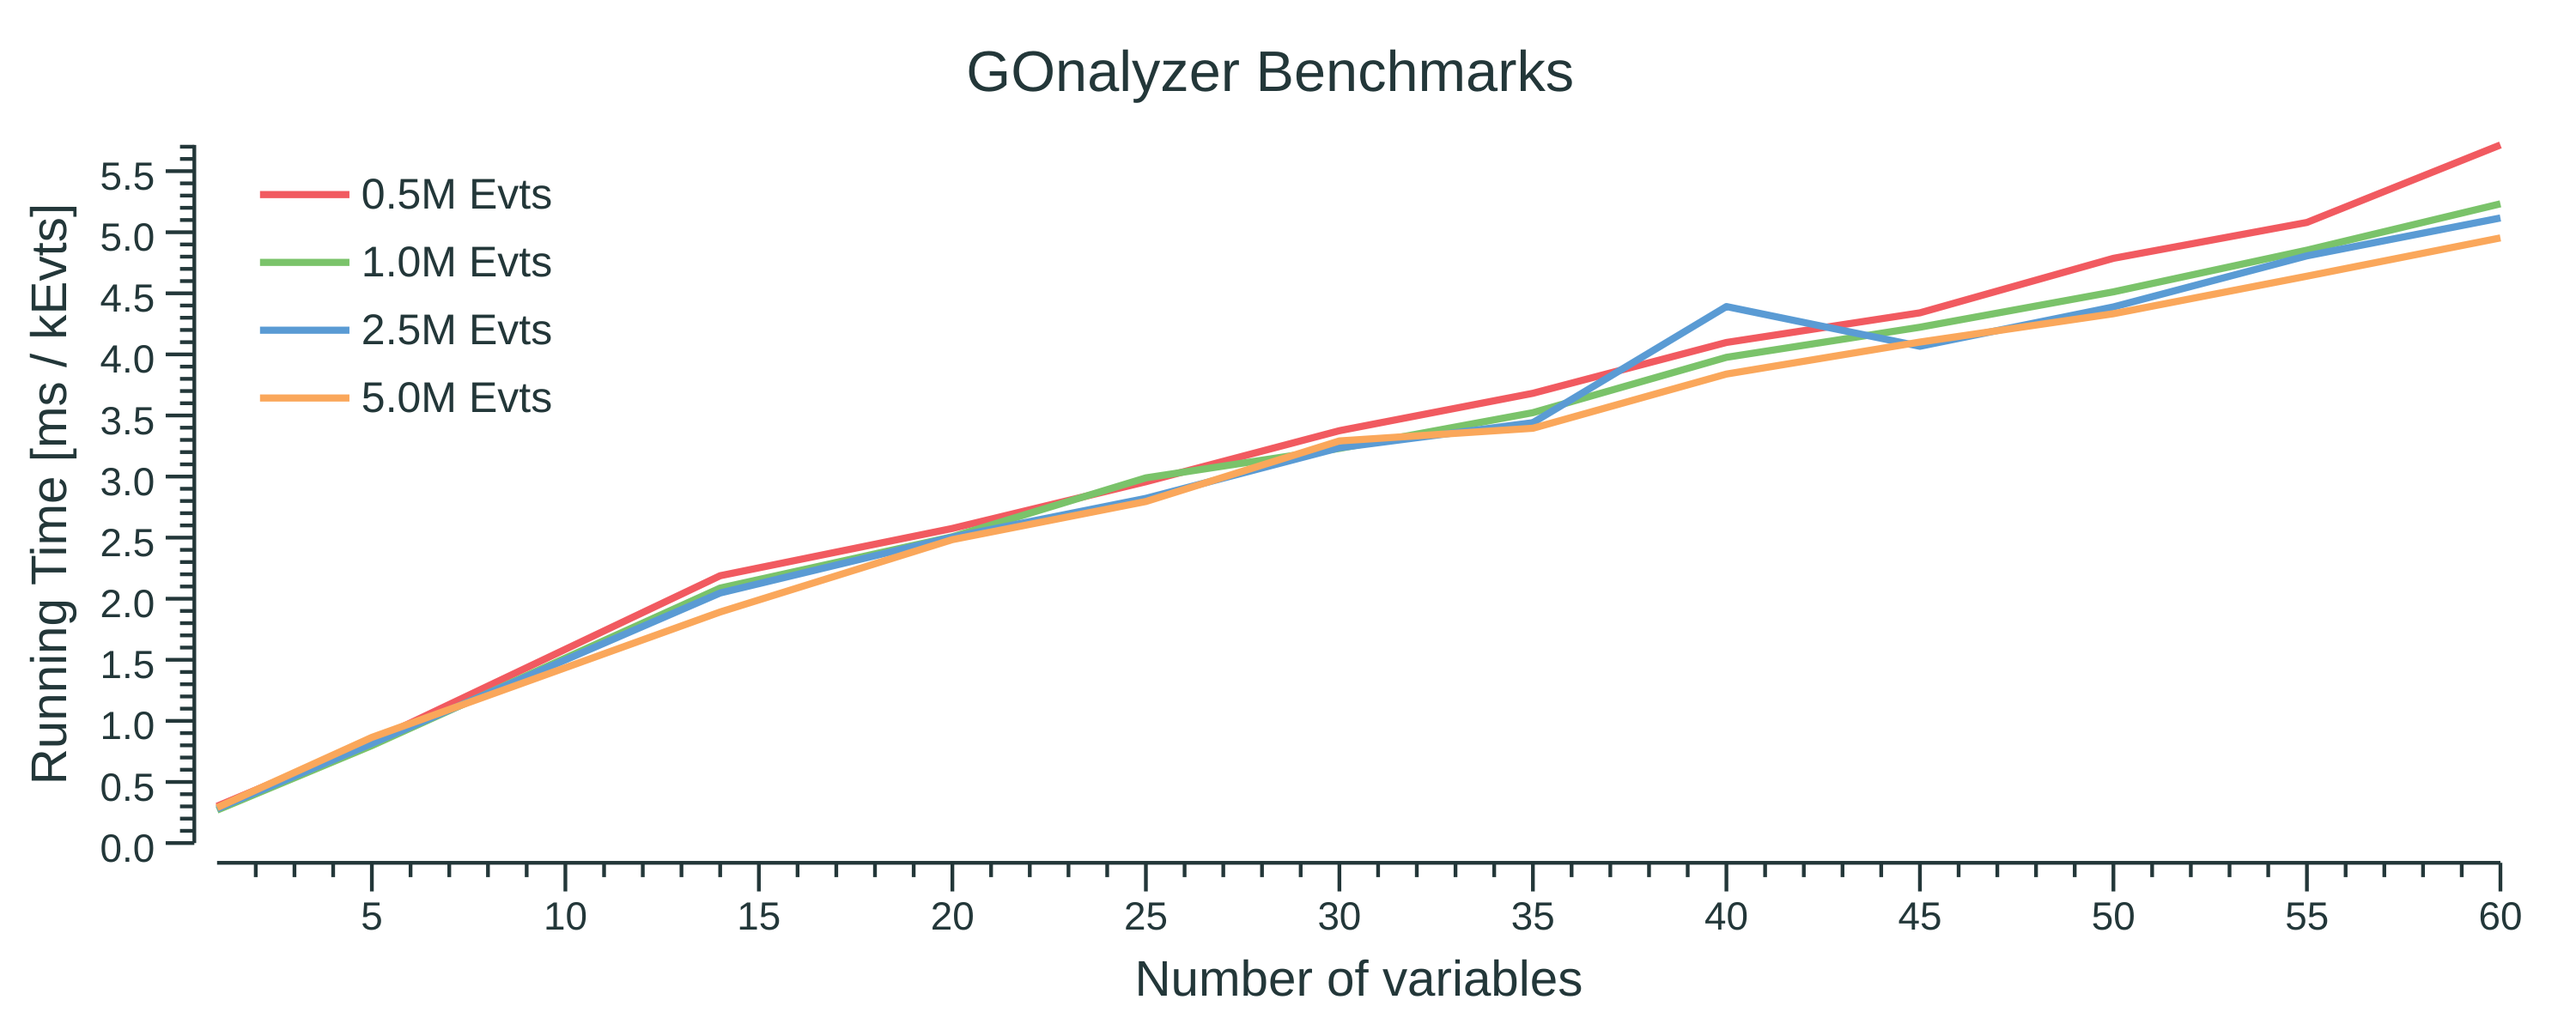
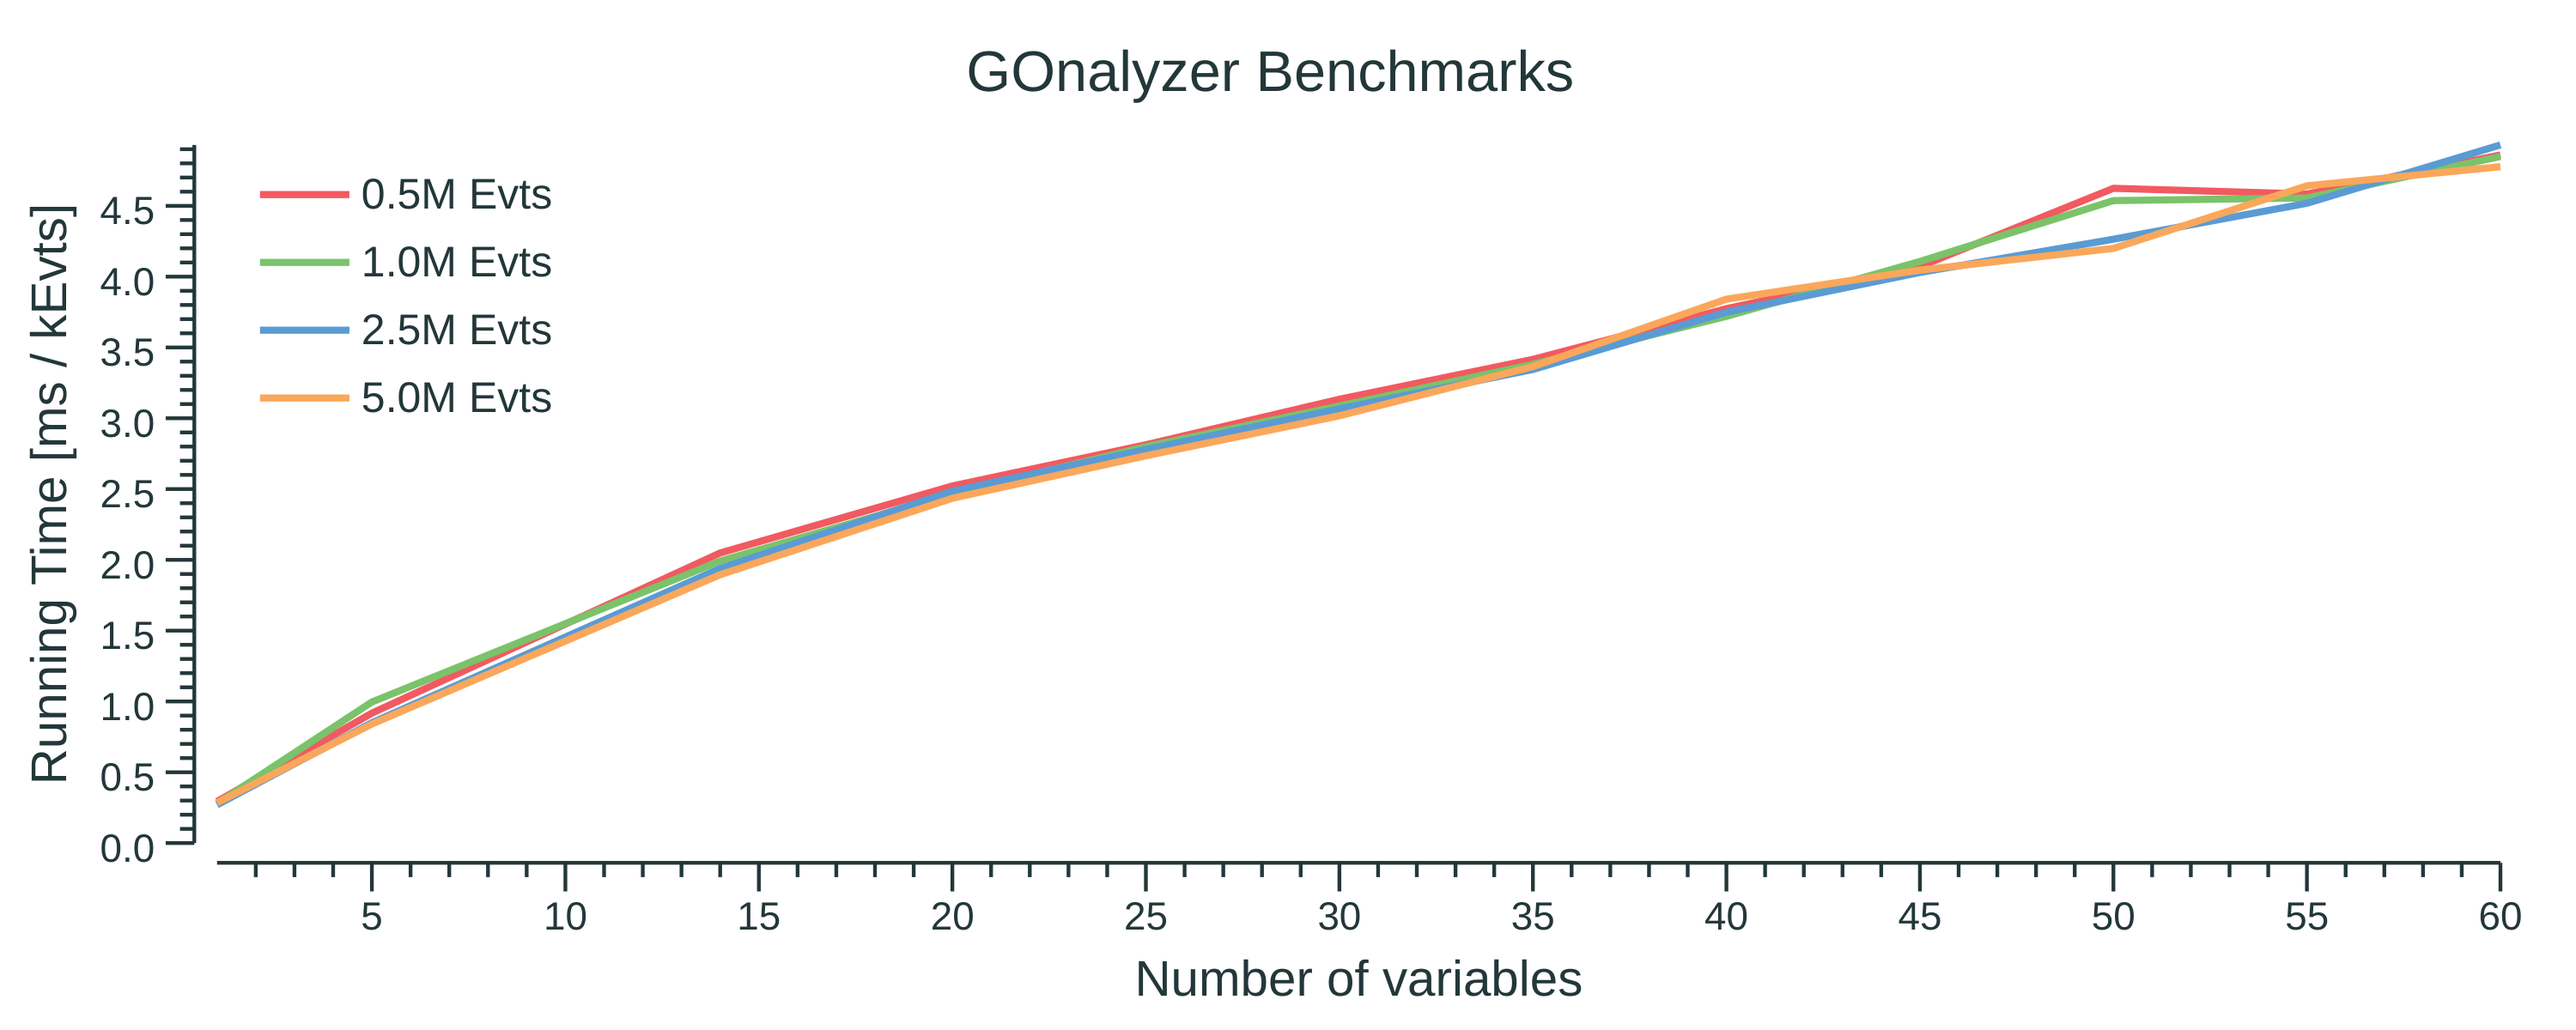
Add new perf after code re-organization

diff --git a/ana-perf/main.go b/ana-perf/main.go
@@ -24,7 +24,7 @@ func main() {
 
 	// Scan number of events
 	nEvts1, nEvts2, nEvts3, nEvts4 := 10, 20, 50, 100
-	
+
 	// Containers
 	t1 := make([]float64, len(nVars))
 	t2 := make([]float64, len(nVars))
@@ -129,43 +129,43 @@ func runTest(n10kEvtsPerSample, nVariables int) float64 {
 	samples := []*ana.Sample{splData, splBkg1, splBkg2, splBkg3, splBkg4}
 
 	// Variables, organized in bunch of 17
-	variables := []*ana.Variable {
-		
+	variables := []*ana.Variable{
+
 		/*var_dphi, var_Crr, var_Cnn, var_Ckk, var_dphi,
-			var_dphi, var_Crr, var_Cnn, var_Ckk, var_dphi,
-			var_dphi, var_Crr, var_Cnn, var_Ckk, var_dphi,
-			var_dphi, var_Crr, var_Cnn, var_Ckk, var_dphi,
-			
-			var_dphi, var_Crr, var_Cnn, var_Ckk, var_dphi,
-			var_dphi, var_Crr, var_Cnn, var_Ckk, var_dphi,
-			var_dphi, var_Crr, var_Cnn, var_Ckk, var_dphi,
-			var_dphi, var_Crr, var_Cnn, var_Ckk, var_dphi,
-			
-			var_dphi, var_Crr, var_Cnn, var_Ckk, var_dphi,
-			var_dphi, var_Crr, var_Cnn, var_Ckk, var_dphi,
-			var_dphi, var_Crr, var_Cnn, var_Ckk, var_dphi,
-			var_dphi, var_Crr, var_Cnn, var_Ckk, var_dphi,
-		*/	
+		var_dphi, var_Crr, var_Cnn, var_Ckk, var_dphi,
+		var_dphi, var_Crr, var_Cnn, var_Ckk, var_dphi,
+		var_dphi, var_Crr, var_Cnn, var_Ckk, var_dphi,
+
+		var_dphi, var_Crr, var_Cnn, var_Ckk, var_dphi,
+		var_dphi, var_Crr, var_Cnn, var_Ckk, var_dphi,
+		var_dphi, var_Crr, var_Cnn, var_Ckk, var_dphi,
+		var_dphi, var_Crr, var_Cnn, var_Ckk, var_dphi,
+
+		var_dphi, var_Crr, var_Cnn, var_Ckk, var_dphi,
+		var_dphi, var_Crr, var_Cnn, var_Ckk, var_dphi,
+		var_dphi, var_Crr, var_Cnn, var_Ckk, var_dphi,
+		var_dphi, var_Crr, var_Cnn, var_Ckk, var_dphi,
+		*/
 
 		var_dphi, var_m_tt, var_eta_t, var_pt_lep, var_Ckk,
-			var_Crr, var_Cnn, var_pt_lep, var_eta_lep, var_pt_b,
-			var_eta_b, var_pt_vsum, var_pt_t, var_pt_tt, var_x1,
-			var_x1x2, var_GG,
-			
-			var_dphi, var_m_tt, var_eta_t, var_pt_lep, var_Ckk,
-			var_Crr, var_Cnn, var_pt_lep, var_eta_lep, var_pt_b,
-			var_eta_b, var_pt_vsum, var_pt_t, var_pt_tt, var_x1,
-			var_x1x2, var_GG,
-			
-			var_dphi, var_m_tt, var_eta_t, var_pt_lep, var_Ckk,
-			var_Crr, var_Cnn, var_pt_lep, var_eta_lep, var_pt_b,
-			var_eta_b, var_pt_vsum, var_pt_t, var_pt_tt, var_x1,
-			var_x1x2, var_GG,
-			
-			var_dphi, var_m_tt, var_eta_t, var_pt_lep, var_Ckk,
-			var_Crr, var_Cnn, var_pt_lep, var_eta_lep, var_pt_b,
-			var_eta_b, var_pt_vsum, var_pt_t, var_pt_tt, var_x1,
-			var_x1x2, var_GG,
+		var_Crr, var_Cnn, var_pt_lep, var_eta_lep, var_pt_b,
+		var_eta_b, var_pt_vsum, var_pt_t, var_pt_tt, var_x1,
+		var_x1x2, var_GG,
+
+		var_dphi, var_m_tt, var_eta_t, var_pt_lep, var_Ckk,
+		var_Crr, var_Cnn, var_pt_lep, var_eta_lep, var_pt_b,
+		var_eta_b, var_pt_vsum, var_pt_t, var_pt_tt, var_x1,
+		var_x1x2, var_GG,
+
+		var_dphi, var_m_tt, var_eta_t, var_pt_lep, var_Ckk,
+		var_Crr, var_Cnn, var_pt_lep, var_eta_lep, var_pt_b,
+		var_eta_b, var_pt_vsum, var_pt_t, var_pt_tt, var_x1,
+		var_x1x2, var_GG,
+
+		var_dphi, var_m_tt, var_eta_t, var_pt_lep, var_Ckk,
+		var_Crr, var_Cnn, var_pt_lep, var_eta_lep, var_pt_b,
+		var_eta_b, var_pt_vsum, var_pt_t, var_pt_tt, var_x1,
+		var_x1x2, var_GG,
 	}
 
 	// Protection for too high number of variables
@@ -179,7 +179,6 @@ func runTest(n10kEvtsPerSample, nVariables int) float64 {
 
 	// Create analyzer object with options
 	analyzer := ana.New(samples, variables[:nVars],
-		ana.WithAutoStyle(true),
 		ana.WithCompileLatex(false),
 		ana.WithHistoNorm(true),
 		ana.WithHistoStack(true),
@@ -192,7 +191,7 @@ func runTest(n10kEvtsPerSample, nVariables int) float64 {
 	if err := analyzer.PlotHistos(); err != nil {
 		log.Fatal("Cannot plot histos:", err)
 	}
-	
+
 	return analyzer.RunTimePerKEvts()
 }
 
@@ -205,16 +204,16 @@ var (
 	tname = "truth"
 
 	// Some TreeFunc: weights and cuts
-	w1   = ana.NewValF64(0.5)
-	w2   = ana.NewValF64(2.0)
-	isGG = ana.NewVarBool("init_gg")
-	isQQ = ana.NewVarBool("init_qq")
+	w1   = ana.TreeValF64(0.5)
+	w2   = ana.TreeValF64(2.0)
+	isGG = ana.TreeVarBool("init_gg")
+	isQQ = ana.TreeVarBool("init_qq")
 
 	// Variables
 	var_dphi = &ana.Variable{
 		Name:       "truth_dphi_ll",
 		SaveName:   "truth_dphi_ll",
-		TreeFunc:   ana.NewVarF64("truth_dphi_ll"),
+		TreeFunc:   ana.TreeVarF64("truth_dphi_ll"),
 		Nbins:      15,
 		Xmin:       0,
 		Xmax:       math.Pi,
@@ -228,7 +227,7 @@ var (
 	var_Ckk = &ana.Variable{
 		Name:       "truth_Ckk",
 		SaveName:   "truth_Ckk",
-		TreeFunc:   ana.NewVarF64("truth_Ckk"),
+		TreeFunc:   ana.TreeVarF64("truth_Ckk"),
 		Nbins:      25,
 		Xmin:       -1,
 		Xmax:       1,
@@ -243,7 +242,7 @@ var (
 	var_Crr = &ana.Variable{
 		Name:       "truth_Crr",
 		SaveName:   "truth_Crr",
-		TreeFunc:   ana.NewVarF64("truth_Crr"),
+		TreeFunc:   ana.TreeVarF64("truth_Crr"),
 		Nbins:      25,
 		Xmin:       -1,
 		Xmax:       1,
@@ -258,7 +257,7 @@ var (
 	var_Cnn = &ana.Variable{
 		Name:       "truth_Cnn",
 		SaveName:   "truth_Cnn",
-		TreeFunc:   ana.NewVarF64("truth_Cnn"),
+		TreeFunc:   ana.TreeVarF64("truth_Cnn"),
 		Nbins:      25,
 		Xmin:       -1,
 		Xmax:       1,
@@ -273,7 +272,7 @@ var (
 	var_pt_lep = &ana.Variable{
 		Name:       "pt_lep",
 		SaveName:   "pt_lep",
-		TreeFunc:   ana.NewVarF32("l_pt"),
+		TreeFunc:   ana.TreeVarF32("l_pt"),
 		Nbins:      25,
 		Xmin:       0,
 		Xmax:       500,
@@ -286,7 +285,7 @@ var (
 	var_eta_lep = &ana.Variable{
 		Name:       "eta_lep",
 		SaveName:   "eta_lep",
-		TreeFunc:   ana.NewVarF32("l_eta"),
+		TreeFunc:   ana.TreeVarF32("l_eta"),
 		Nbins:      25,
 		Xmin:       -5,
 		Xmax:       5,
@@ -300,7 +299,7 @@ var (
 	var_pt_b = &ana.Variable{
 		Name:       "pt_b",
 		SaveName:   "pt_b",
-		TreeFunc:   ana.NewVarF32("b_pt"),
+		TreeFunc:   ana.TreeVarF32("b_pt"),
 		Nbins:      25,
 		Xmin:       0,
 		Xmax:       500,
@@ -313,7 +312,7 @@ var (
 	var_eta_b = &ana.Variable{
 		Name:       "eta_b",
 		SaveName:   "eta_b",
-		TreeFunc:   ana.NewVarF32("b_eta"),
+		TreeFunc:   ana.TreeVarF32("b_eta"),
 		Nbins:      25,
 		Xmin:       -5,
 		Xmax:       5,
@@ -327,7 +326,7 @@ var (
 	var_pt_vsum = &ana.Variable{
 		Name:        "vsum_pt",
 		SaveName:    "pt_vsum",
-		TreeFunc:    ana.NewVarF32("vsum_pt"),
+		TreeFunc:    ana.TreeVarF32("vsum_pt"),
 		Nbins:       25,
 		Xmin:        0,
 		Xmax:        250,
@@ -341,7 +340,7 @@ var (
 	var_pt_t = &ana.Variable{
 		Name:     "t_pt",
 		SaveName: "pt_t",
-		TreeFunc: ana.NewVarF32("t_pt"),
+		TreeFunc: ana.TreeVarF32("t_pt"),
 		Nbins:    100,
 		Xmin:     0,
 		Xmax:     500,
@@ -356,7 +355,7 @@ var (
 	var_eta_t = &ana.Variable{
 		Name:       "eta_t",
 		SaveName:   "eta_t",
-		TreeFunc:   ana.NewVarF32("t_eta"),
+		TreeFunc:   ana.TreeVarF32("t_eta"),
 		Nbins:      25,
 		Xmin:       -5,
 		Xmax:       5,
@@ -371,7 +370,7 @@ var (
 	var_m_tt = &ana.Variable{
 		Name:       "m_tt",
 		SaveName:   "m_tt",
-		TreeFunc:   ana.NewVarF32("ttbar_m"),
+		TreeFunc:   ana.TreeVarF32("ttbar_m"),
 		Nbins:      25,
 		Xmin:       300,
 		Xmax:       1500,
@@ -384,7 +383,7 @@ var (
 	var_pt_tt = &ana.Variable{
 		Name:       "pt_tt",
 		SaveName:   "pt_tt",
-		TreeFunc:   ana.NewVarF32("ttbar_pt"),
+		TreeFunc:   ana.TreeVarF32("ttbar_pt"),
 		Nbins:      25,
 		Xmin:       0,
 		Xmax:       150,
@@ -396,16 +395,15 @@ var (
 
 	var_x1 = &ana.Variable{
 		SaveName: "init_x1",
-		TreeFunc: ana.NewVarF32("init_x1"),
+		TreeFunc: ana.TreeVarF32("init_x1"),
 		Nbins:    25,
 		Xmin:     0,
 		Xmax:     1,
 	}
 
-
 	var_GG = &ana.Variable{
 		SaveName: "init_gg",
-		TreeFunc: ana.NewVarBool("init_qq"),
+		TreeFunc: ana.TreeVarBool("init_qq"),
 		Nbins:    2,
 		Xmin:     0,
 		Xmax:     2,

diff --git a/ana-perf/README.md b/ana-perf/README.md
@@ -5,7 +5,7 @@
 For 2M events and 60 variables, a comparison with similar ROOT-based code
 (using `t->Draw()`) gives the following numbers:
  + `ROOT  -> 6.2 ms/kEvts`
- + `GOHEP -> 5.1 ms/kEvts`
+ + `GOHEP -> 4.9 ms/kEvts`
  
 Testing on only one variable to avoid event-loop repetition
 in case of `t->Draw()` (even if I think it's quite optimized):
